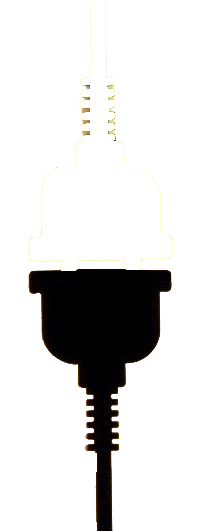
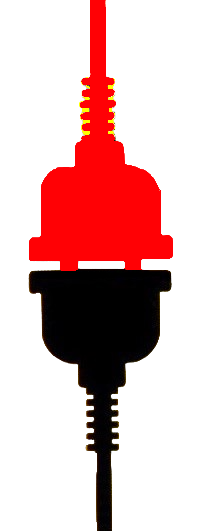
Add files via upload

diff --git a/script.js b/script.js
@@ -325,47 +325,88 @@
     ctx.stroke();
     console.log("maze3 "+cord.length);
 }
-function drawPath(){
-	var scaleFactor = 1.4;
-  path = [
-[202, 2], [202, 10], [186, 10], [186, 26], [170, 26], [170, 10], [138, 10], [138, 42], [154, 42], [154, 122], [122, 122], [122, 90], [138, 90], [138, 74], [90, 74], [90, 42], [122, 42], [122, 10], [106, 10], [106, 26], [90, 26], [90, 10], [42, 10], [42, 26], [10, 26], [10, 42], [26, 42], [26, 58], [42, 58], [42, 74], [26, 74], [26, 106], [90, 106], [90, 154], [74, 154], [74, 170], [106, 170], [106, 154], [154, 154], [154, 138], [186, 138], [186, 154], [202, 154], [202, 202], [170, 202], [170, 218], [186, 218], [186, 234], [202, 234], [202, 250], [234, 250], [234, 266], [266, 266], [266, 282], [218, 282], [218, 298], [250, 298], [250, 314], [266, 314], [266, 298], [282, 298], [282, 314], [298, 314], [298, 298], [314, 298], [314, 314], [362, 314], [362, 330], [250, 330], [250, 362], [266, 362], [266, 378], [234, 378], [234, 394], [202, 394], [202, 402]
+function drawPath() {
+    var scaleFactor = 1.4;
+    var path = [
+        [202, 2], [202, 10], [186, 10], [186, 26], [170, 26], [170, 10], [138, 10], [138, 42], [154, 42], [154, 122], [122, 122], [122, 90], [138, 90], [138, 74], [90, 74], [90, 42], [122, 42], [122, 10], [106, 10], [106, 26], [90, 26], [90, 10], [42, 10], [42, 26], [10, 26], [10, 42], [26, 42], [26, 58], [42, 58], [42, 74], [26, 74], [26, 106], [90, 106], [90, 154], [74, 154], [74, 170], [106, 170], [106, 154], [154, 154], [154, 138], [186, 138], [186, 154], [202, 154], [202, 202], [170, 202], [170, 218], [186, 218], [186, 234], [202, 234], [202, 250], [234, 250], [234, 266], [266, 266], [266, 282], [218, 282], [218, 298], [250, 298], [250, 314], [266, 314], [266, 298], [282, 298], [282, 314], [298, 314], [298, 298], [314, 298], [314, 314], [362, 314], [362, 330], [250, 330], [250, 362], [266, 362], [266, 378], [234, 378], [234, 394], [202, 394], [202, 402]
     ];
- 
- path = path.map(function (coordinate) {
-        return coordinate.map(function (value) {
+
+    path = path.map(function(coordinate) {
+        return coordinate.map(function(value) {
             return value * scaleFactor;
         });
     });
 
     const canvas = document.getElementById("canvas");
     const ctx = canvas.getContext("2d");
+    const drawDelay = 100;
 
-    const drawDelay = 100; 
-	
-	path.reverse();
-	
+    path.reverse();
+
     for (let i = 0; i < path.length - 1; i++) {
         setTimeout(() => {
             ctx.beginPath();
             ctx.moveTo(path[i][0], path[i][1]);
             ctx.lineTo(path[i + 1][0], path[i + 1][1]);
             ctx.lineWidth = 2;
-            ctx.strokeStyle = "white";
+            ctx.strokeStyle = "red";
             ctx.stroke();
+        if (i === path.length - 2) {
+                changeImage();
+            }
         }, i * drawDelay);
     }
-	
-	function erasePathAnimation() {
+
+
+function changeImage() {
+    const zarnicaImage = document.getElementById("luc");
+     
+    zarnicaImage.style.height = "150px";
+    zarnicaImage.style.width = "150px";
+	zarnicaImage.src = "slike/zarnica.png";
+}
+
+}
+
+
+function erasePath() {
+    const scaleFactor = 1.4;
+    var path = [
+        [202, 2], [202, 10], [186, 10], [186, 26], [170, 26], [170, 10], [138, 10], [138, 42], [154, 42], [154, 122], [122, 122], [122, 90], [138, 90], [138, 74], [90, 74], [90, 42], [122, 42], [122, 10], [106, 10], [106, 26], [90, 26], [90, 10], [42, 10], [42, 26], [10, 26], [10, 42], [26, 42], [26, 58], [42, 58], [42, 74], [26, 74], [26, 106], [90, 106], [90, 154], [74, 154], [74, 170], [106, 170], [106, 154], [154, 154], [154, 138], [186, 138], [186, 154], [202, 154], [202, 202], [170, 202], [170, 218], [186, 218], [186, 234], [202, 234], [202, 250], [234, 250], [234, 266], [266, 266], [266, 282], [218, 282], [218, 298], [250, 298], [250, 314], [266, 314], [266, 298], [282, 298], [282, 314], [298, 314], [298, 298], [314, 298], [314, 314], [362, 314], [362, 330], [250, 330], [250, 362], [266, 362], [266, 378], [234, 378], [234, 394], [202, 394], [202, 402]
+    ];
+
+    path = path.map(function(coordinate) {
+        return coordinate.map(function(value) {
+            return value * scaleFactor;
+        });
+    });
+
     const canvas = document.getElementById("canvas");
     const ctx = canvas.getContext("2d");
-    const eraseDelay = 80;
+    const drawDelay = 100;
 
-    // Erase the path segments with animation
+    path.reverse();
+
     for (let i = 0; i < path.length - 1; i++) {
-        setTimeout(() => eraseLine(ctx, i, path), i * eraseDelay);
+        setTimeout(() => {
+            ctx.beginPath();
+            ctx.moveTo(path[i][0], path[i][1]);
+            ctx.lineTo(path[i + 1][0], path[i + 1][1]);
+            ctx.lineWidth = 3;
+            ctx.strokeStyle = "yellow"; 
+            ctx.stroke();
+        if (i === path.length - 2) {
+                changeImage();
+            }
+        }, i * drawDelay);
     }
+
+
+function changeImage() {
+    const lucImage = document.getElementById("luc");
+    lucImage.src = "slike/luc.png";
 }
-	
-const resetButton = document.getElementById("gumb");
-gumb.addEventListener("click", erasePathAnimation);
 }
+
+const resetButton = document.getElementById("yellow");
+resetButton.addEventListener("click", erasePath);

diff --git a/labirint.html b/labirint.html
@@ -6,17 +6,19 @@
 	<link rel="stylesheet" href="style.css">
 	<link rel="icon" type="image/png" href="slike/ideja.jpg">
 	<script src="script.js"></script>
+	
 </head>
 	<body>
 	<div class="container">
 	<div class="desni">
 		<h1>Labirint</h1>
-		<button class="gumb" onclick="drawPath();">Povezi</button>
-		<button class="gumb" id="gumb" onclick="erasePath();">Izbrisi</button>
+		<img src="slike/switch.png" class="switch">
+		<button class="gumb1" id="red" onclick="drawPath();"></button><br>
+		<button class="gumb2" id="yellow" onclick="erasePath();"></button>
 		<!--<img src="slike/switch.png" class="switch">(switch cez button in popravi dezajn, izbrisi path, luc dagori)-->
 		</div>
-				<div class="levi">
-				<img src="slike/luc.png" class="luc">
+				<div class="levi">	
+				<img src="slike/luc.png" class="luc" id="luc">
 				<canvas id="canvas" class="maze" width="404px" height="405px">
 									<script>
 									drawMaze();

diff --git a/style.css b/style.css
@@ -28,7 +28,7 @@ body {
 .desni {
     flex: 1; 
     margin-top: 40px;
-	margin-left:65%;
+	margin-left:55%;
     order: 2; 
 }
 	.luc{
@@ -50,11 +50,29 @@ body {
   font-family: Bledek;
   src: url('font/Bledek.otf');
 }
-.gumb{
-  width: 150px;
-  height: 70px;
-  margin-top: 190px;
-  margin-right: 70px;
+.gumb1{
+  width: 50px;
+  height: 50px;
+  margin-top: 200px;
+  margin-left: -200px;
   border-radius: 30px;
   background-color: transparent;
+  border-color: transparent;
+}
+.gumb2{
+  width: 50px;
+  height: 50px;
+  margin-top: 40px;
+  margin-left: -200px;
+  border-radius: 30px;
+  background-color: transparent;
+  border-color: transparent;
+}
+.switch{
+  width: 350px;
+  height: 370px;
+  margin-top: 90px;
+  margin-left: -190px;
+  float:left;
+  
 }
